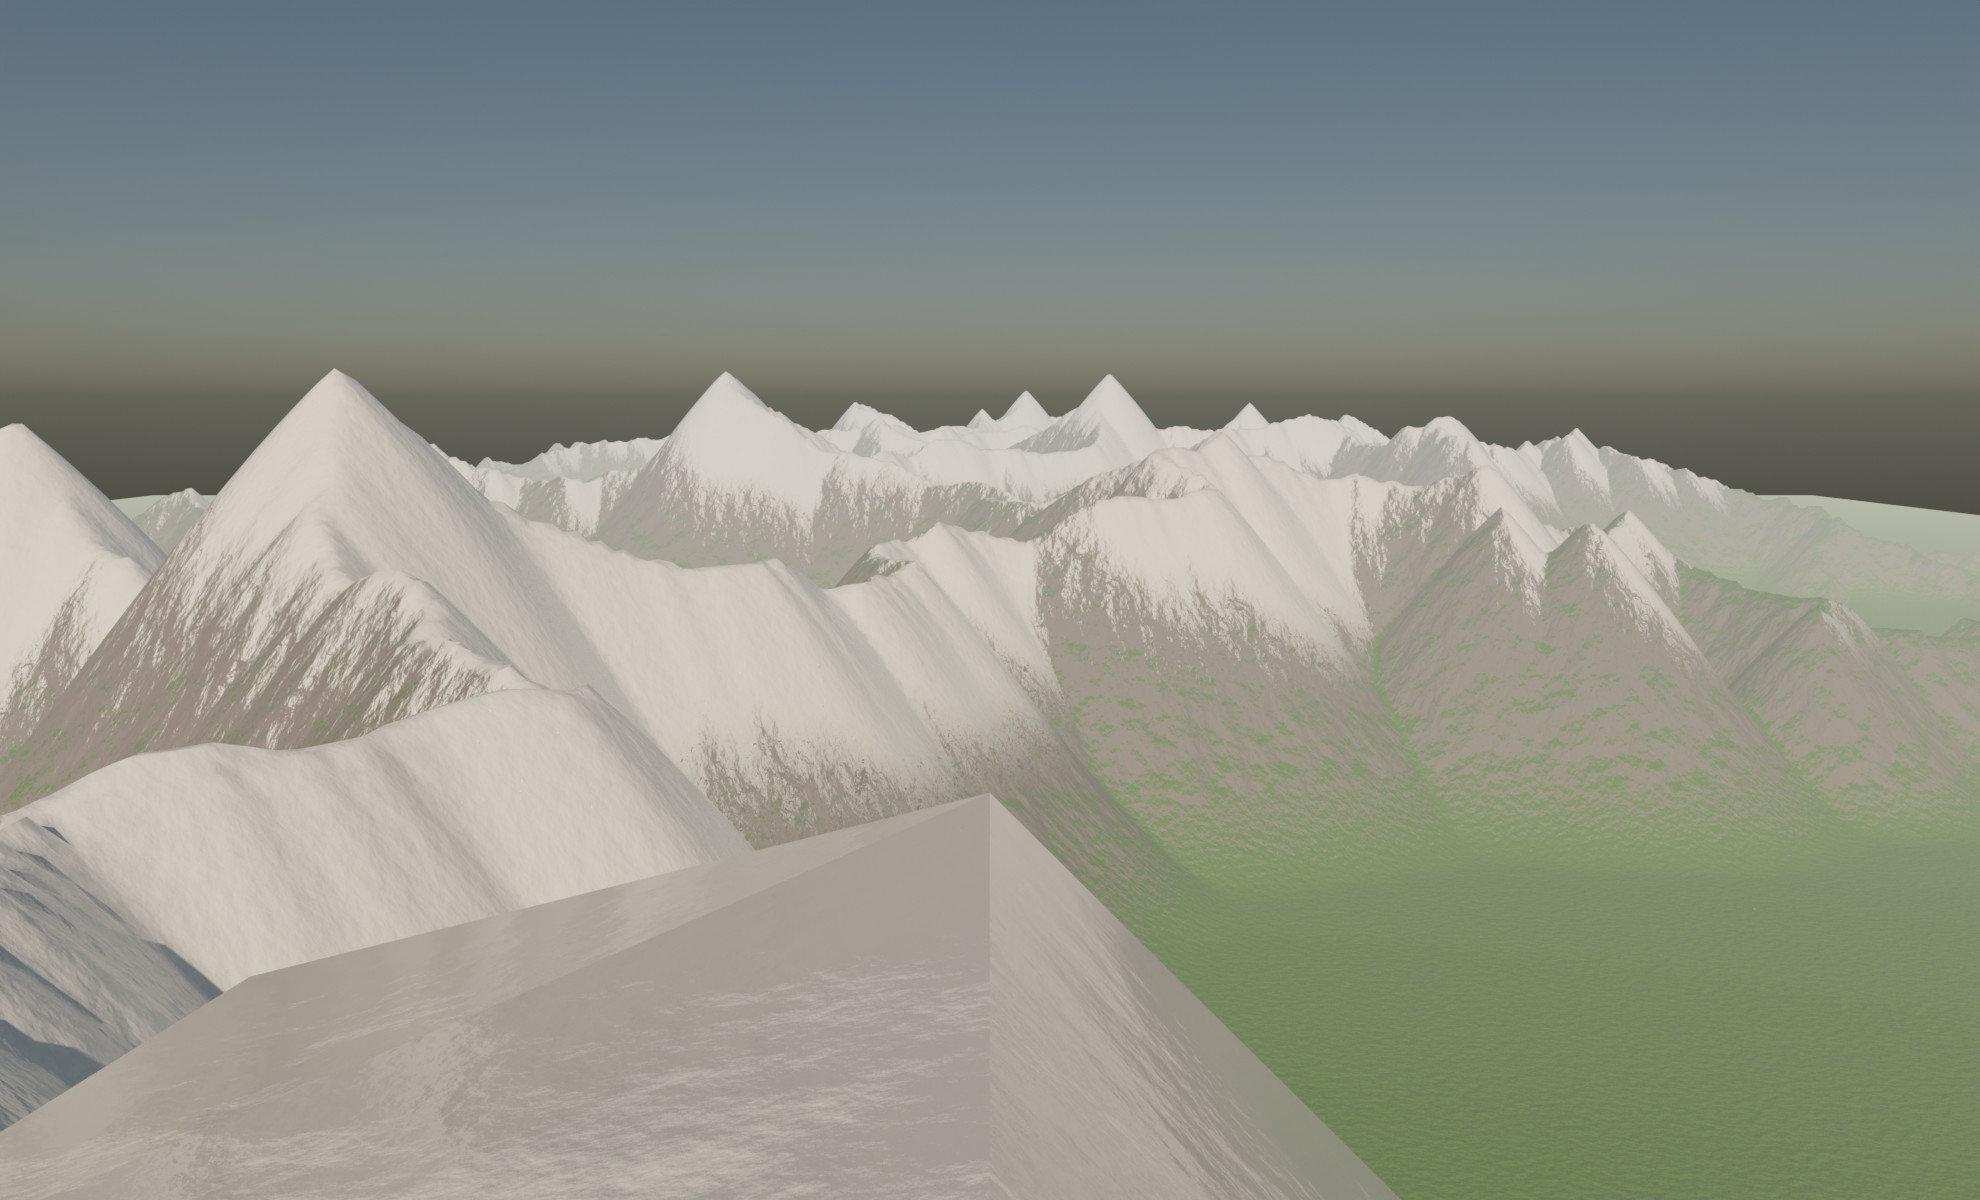
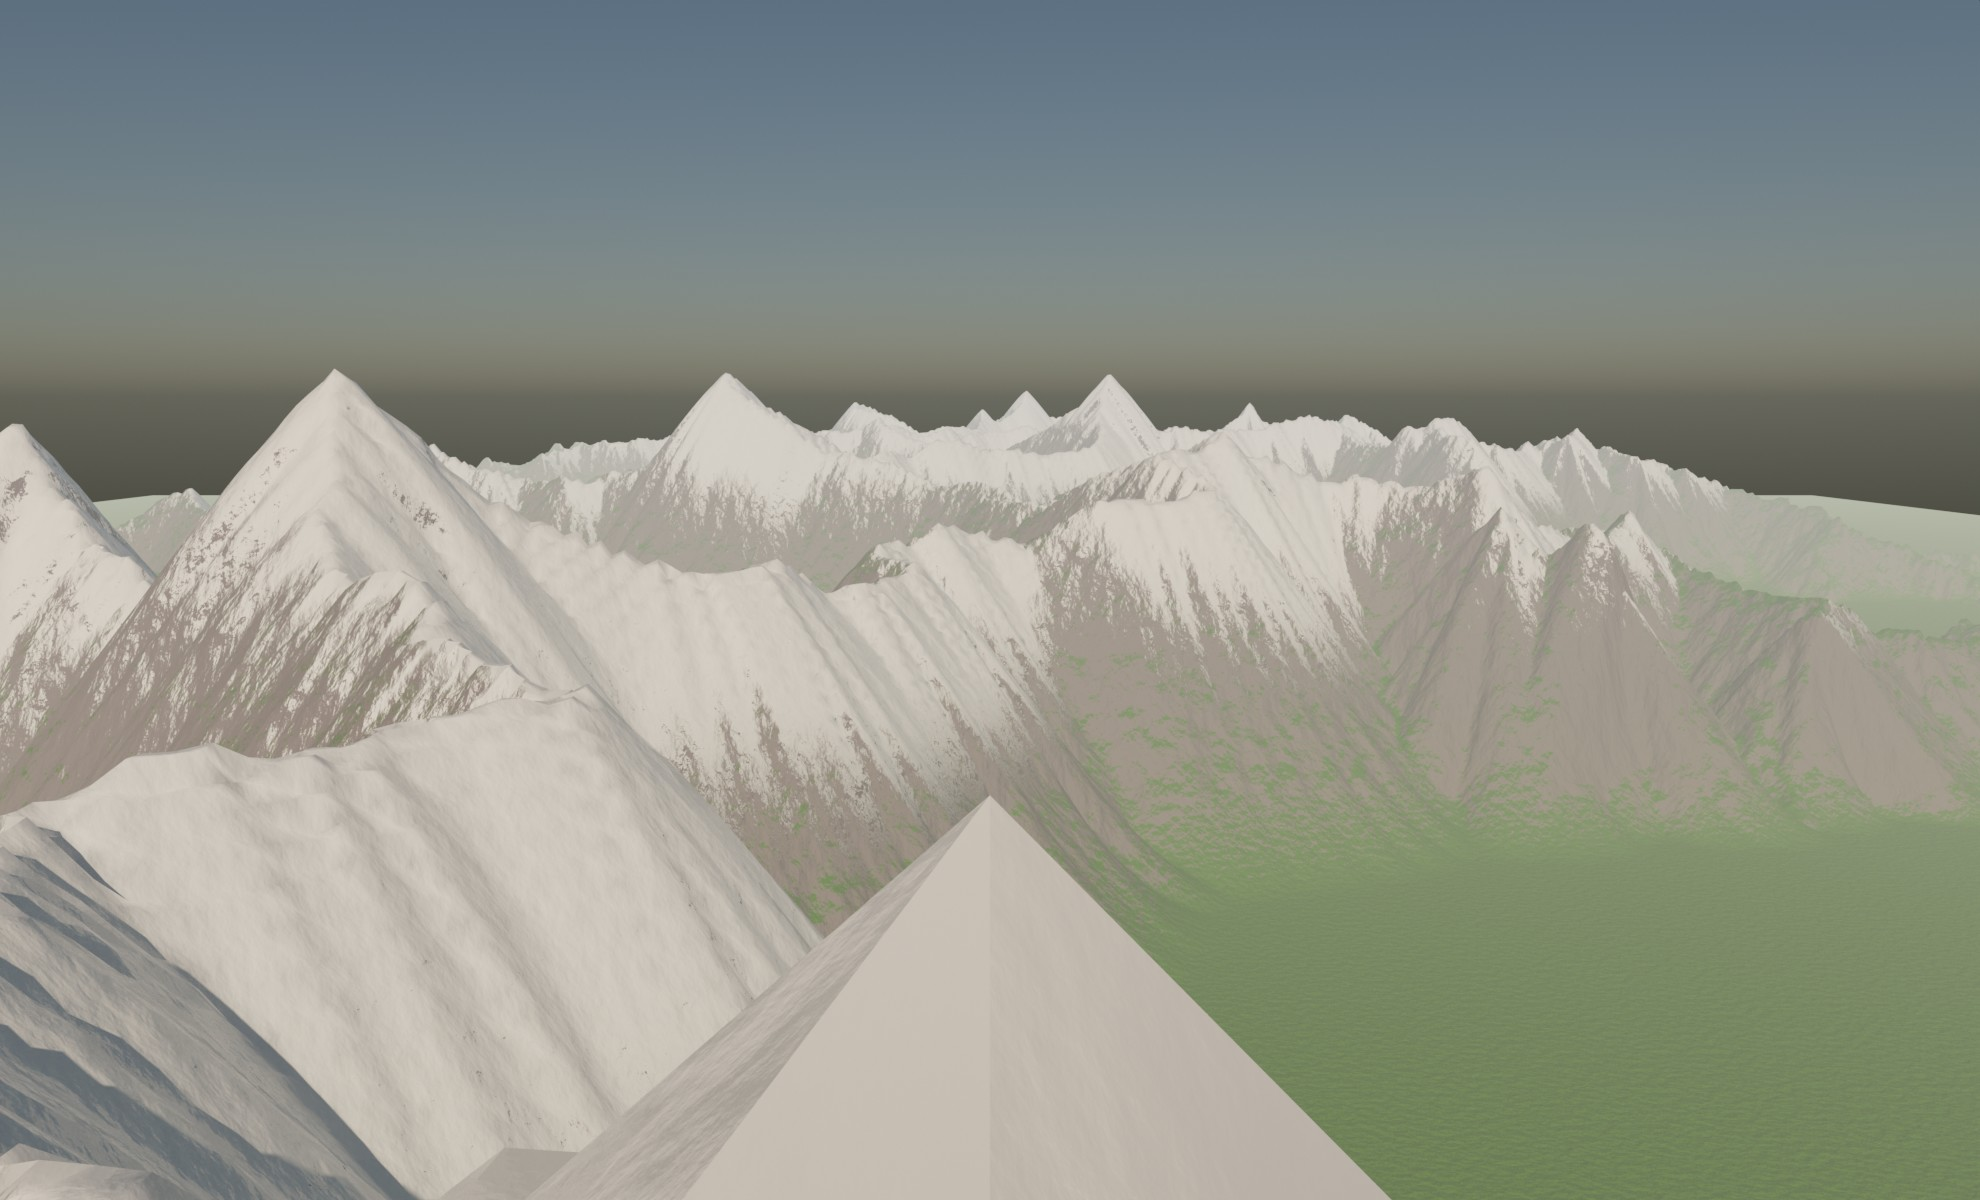
Let brush shape follow ridge curve

diff --git a/lib/curve_tools/rasterizer.hpp b/lib/curve_tools/rasterizer.hpp
@@ -3,6 +3,7 @@
 
 #include "lib/common/spaces.hpp"
 #include "lib/common/span_2d.hpp"
+#include "lib/array_classes/span.hpp"
 
 #include <geosimd/line.hpp>
 
@@ -11,9 +12,9 @@
 namespace terraformer
 {
 	template<class T, class PixelType>
-	concept brush = requires(T obj, PixelType old_val, PixelType new_val, float x, float y, float z, float xi, float eta)
+	concept brush = requires(T obj, PixelType old_val, PixelType new_val, float x, float y, float z, array_index<location> starting_at, float xi, float eta)
 	{
-		{ obj.begin_pixel(x, y, z) } -> std::same_as<void>;
+		{ obj.begin_pixel(x, y, z, starting_at) } -> std::same_as<void>;
 		{ std::as_const(obj).get_radius() } -> std::same_as<float>;
 		{ std::as_const(obj).get_pixel_value(old_val, new_val, xi, eta) } -> std::same_as<PixelType>;
 	};
@@ -64,6 +65,7 @@ namespace terraformer
 
 	template<class PixelType, brush<PixelType> Brush>
 	void draw(span_2d<PixelType> target_surface,
+		array_index<location> starting_at,
 		geosimd::line_segment<geom_space> seg,
 		line_segment_draw_params<PixelType, Brush>& params)
 	{
@@ -81,7 +83,7 @@ namespace terraformer
 				auto const y = a*static_cast<float>(l - static_cast<int32_t>(seg.p1[0]))
 					+ seg.p1[1];
 				auto const z = b*static_cast<float>(l - static_cast<int32_t>(seg.p1[0])) + seg.p1[2];
-				params.brush.begin_pixel(x, y, z);
+				params.brush.begin_pixel(x, y, z, starting_at);
 				paint(target_surface,
 					paint_params<PixelType, Brush>{
 						.x = x/params.scale,
@@ -105,7 +107,7 @@ namespace terraformer
 				auto const x = a*static_cast<float>(k - static_cast<int32_t>(seg.p1[1]))
 					+ seg.p1[0];
 				auto const z = b*static_cast<float>(k - static_cast<int32_t>(seg.p1[1])) + seg.p1[2];
-				params.brush.begin_pixel(x, y, z);
+				params.brush.begin_pixel(x, y, z, starting_at);
 				paint(target_surface,
 					paint_params<PixelType, Brush>{
 						.x = x/params.scale,
@@ -118,20 +120,19 @@ namespace terraformer
 		}
 	}
 
-
 	template<class PixelType, brush<PixelType> Brush>
 	void draw(span_2d<PixelType> target_surface,
-		std::span<location const> curve,
+		span<location const> curve,
 		line_segment_draw_params<PixelType, Brush>&& params)
 	{
-		if(std::size(curve) == 0)
+		if(curve.empty())
 		{ return; }
 
-		auto prev = curve[0];
-		for(size_t k = 1; k!=std::size(curve); ++k)
+		auto prev = curve.front();
+		for(auto k = curve.first_element_index() + 1; k!=std::size(curve); ++k)
 		{
 			auto const current = curve[k];
-			draw(target_surface, geosimd::line_segment{.p1 = prev, .p2 = current}, params);
+			draw(target_surface, k, geosimd::line_segment{.p1 = prev, .p2 = current}, params);
 			prev = current;
 		}
 	}

diff --git a/lib/generators/ridge_tree_generator/ridge_tree.cpp b/lib/generators/ridge_tree_generator/ridge_tree.cpp
@@ -248,13 +248,25 @@ namespace
 	class ridge_tree_brush
 	{
 	public:
-		explicit ridge_tree_brush(float peak_radius):
+		explicit ridge_tree_brush(float peak_radius, terraformer::span<terraformer::location const> locations):
 			m_intensity_profile{},
-			m_peak_radius{peak_radius}
+			m_peak_radius{peak_radius},
+			m_locations{locations},
+			m_tangent{terraformer::direction{terraformer::displacement{1.0f, 0.0f, 0.0f}}},
+			m_normal{terraformer::direction{terraformer::displacement{0.0f, 1.0f, 0.0f}}}
 		{}
 
-		void begin_pixel(float, float, float z)
+		void begin_pixel(float, float, float z, terraformer::array_index<terraformer::location> starting_at)
 		{
+			if(starting_at < std::size(m_locations) - terraformer::array_size<terraformer::location>{1})
+			{
+				auto t = m_locations[starting_at + 1] - m_locations[starting_at - 1];
+				t -= terraformer::displacement{0.0f, 0.0f, t[2]};
+				m_tangent = terraformer::direction{t};
+				// TODO: This operation should be optimized in geosimd
+				m_normal = terraformer::direction{terraformer::displacement{m_tangent[1], -m_tangent[0], 0.0f}};
+			}
+
 			m_current_radius = z*m_peak_radius;
 			m_intensity_profile = make_polynomial(
 				terraformer::cubic_spline_control_point{
@@ -273,7 +285,10 @@ namespace
 
 		auto get_pixel_value(float old_val, float new_val, float xi, float eta) const
 		{
-			auto const r = std::min(std::sqrt(xi*xi + eta*eta), 1.0f);
+			terraformer::displacement const v{xi, eta, 0.0f};
+			auto const v_tangent = 3.0f*inner_product(v, m_tangent);
+			auto const v_normal = inner_product(v, m_normal);
+			auto const r = std::min(std::sqrt(v_tangent*v_tangent + v_normal*v_normal), 1.0f);
 			auto const z = new_val*std::max(m_intensity_profile(r), 0.0f);
 			return std::max(old_val, z);
 		}
@@ -282,6 +297,9 @@ namespace
 		terraformer::polynomial<3> m_intensity_profile;
 		float m_peak_radius;
 		float m_current_radius;
+		terraformer::span<terraformer::location const> m_locations;
+		terraformer::direction m_tangent;
+		terraformer::direction m_normal;
 	};
 }
 
@@ -309,7 +327,8 @@ void terraformer::render(
 					.value = 1.0f,
 					.scale = pixel_size,
 					.brush = ridge_tree_brush{
-						peak_radius/pixel_size
+						peak_radius/pixel_size,
+						branch.points()
 					}
 				}
 			);

diff --git a/lib/curve_tools/displace.cpp b/lib/curve_tools/displace.cpp
@@ -19,6 +19,7 @@ terraformer::displaced_curve terraformer::displace_xy(std::span<location const> 
 		auto const k = 1;
 		auto const val = dy.offsets[0];
 		auto const t = c[k] - c[k - 1];
+		// TODO: This operation should be optimized in geosimd
 		auto const n = direction{displacement{t[1], -t[0], 0.0f}};
 		displaced_curve::index_type const output_index{k - 1};
 		points[output_index] = c[k - 1] + val*n;

diff --git a/lib/curve_tools/rasterizer.test.cpp b/lib/curve_tools/rasterizer.test.cpp
@@ -11,7 +11,7 @@ namespace
 	{
 		float radius;
 
-		void begin_pixel(float, float, float){}
+		void begin_pixel(float, float, float, terraformer::array_index<terraformer::location>){}
 
 		float get_radius() const
 		{ return radius; }
